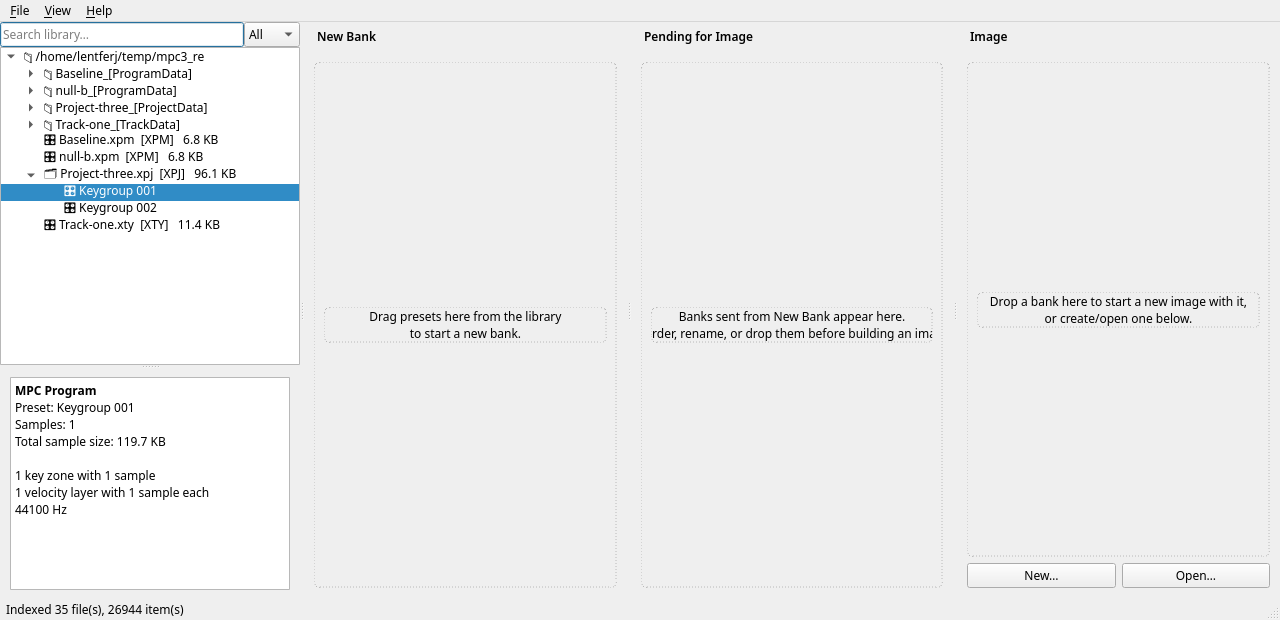
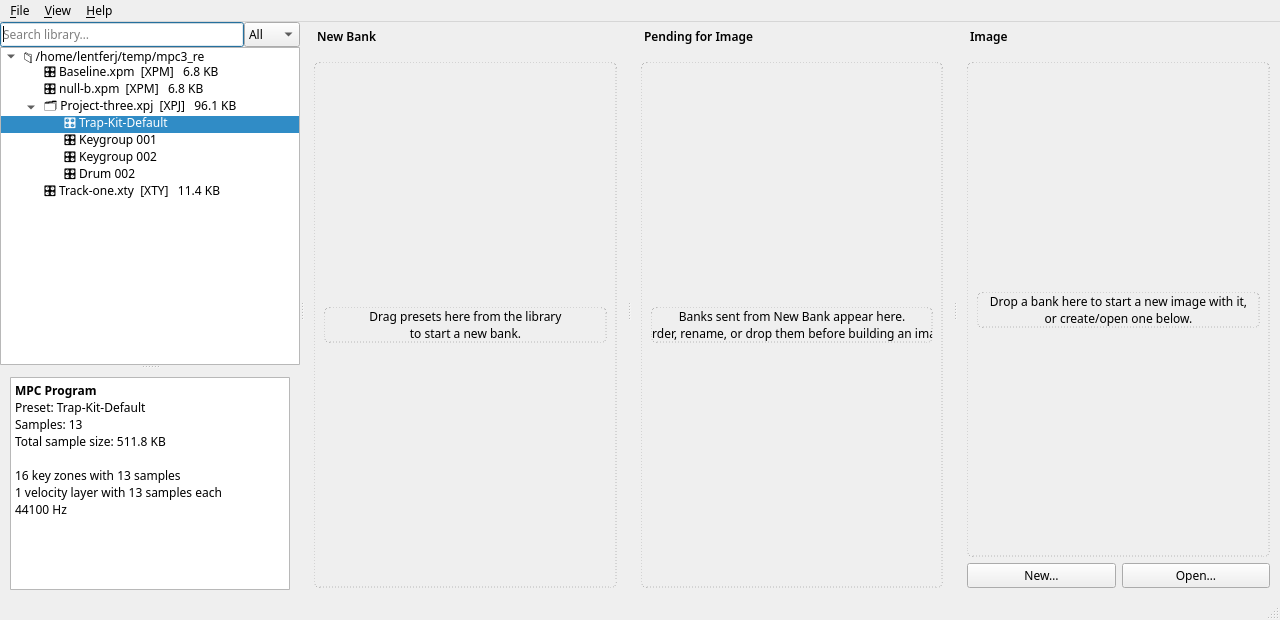
Reshoot the MPC project screenshot
The figure was taken before drum kits reached project rows and before
dead-end folders stopped being listed, so it showed a project expanding
into 2 keygroup programs under four data folders that expand into
nothing -- a README picture contradicting the app it documents.

Now: the same project expanding into all 4 of its programs, drum kits
included, with the four dead-end folders gone and the Detail pane on a
drum kit -- 13 samples across 16 key zones, which is also the point that
a kit usually carries more material than a keygroup program does. Caption
updated to match.

Taken the way the manual tests build a window: no Config.save(), no
library root added to the real config, no scan -- the root goes into the
live model only. The status bar is cleared for the shot because with no
configured roots it offers to add one, contradicting the folder on
screen.

diff --git a/README.md b/README.md
@@ -323,7 +323,7 @@ rather than being a single all-or-nothing import.
    only the program objects are decoded, not the ~22 MB of JSON around
    them. A hit opens the program's own row.
 
-![Explorer showing an expanded .xpj project with one row per keygroup program, alongside a .xpm program and a .xty track, and the Detail pane summarising the selected program](docs/screenshots/10_mpc_project.png)
+![Explorer showing an expanded .xpj project with one row per program — drum kits and keygroups alike — alongside a .xpm program and a .xty track, with the Detail pane summarising the selected drum kit: 13 samples across 16 key zones](docs/screenshots/10_mpc_project.png)
 
 A project that can't produce anything is marked **(nothing to import)**
 and greyed, with the reason in its tooltip, rather than expanding into
